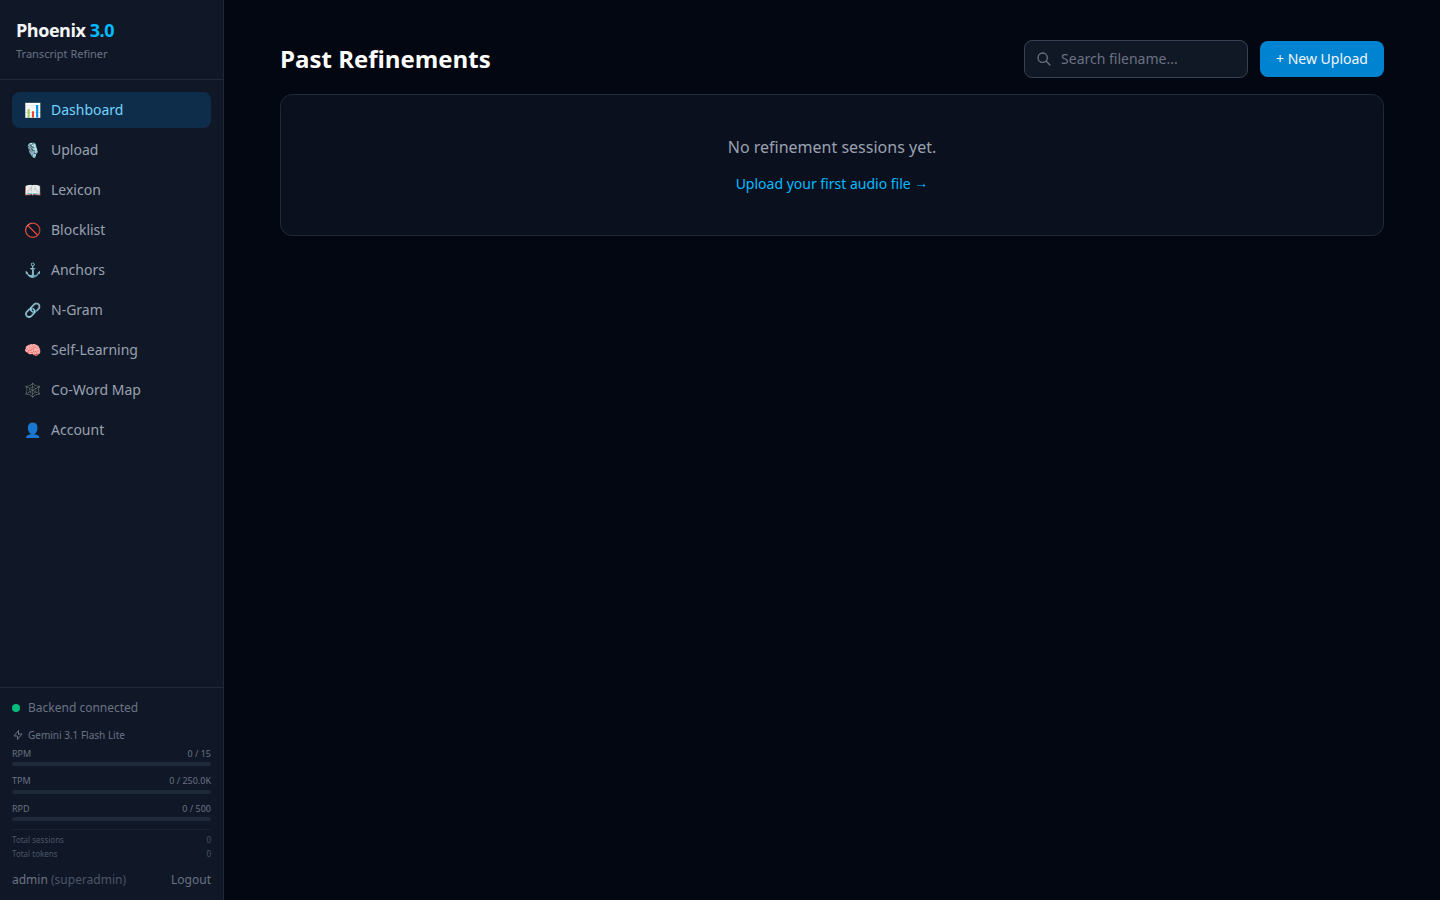
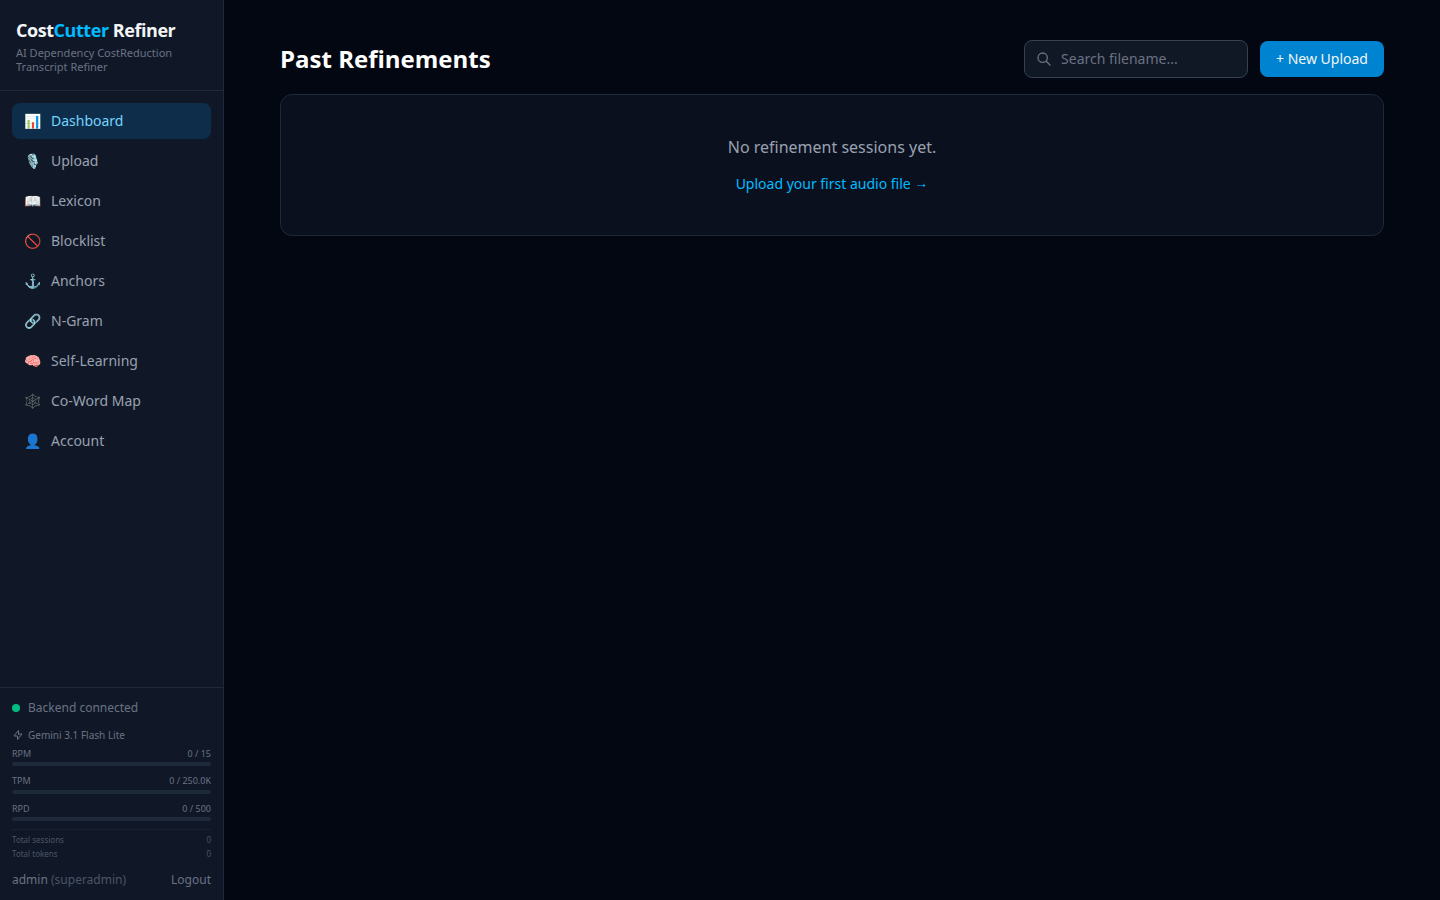
Rename Phoenix 3.0 branding to CostCutter Refiner
Replace user-facing product name with CostCutter Refiner on the
dashboard, login page, and API titles. Use AI Dependency
CostReduction Transcript Refiner as the descriptive subtitle.
Update README, SYSTEM_DOCUMENTATION, env template, pgAdmin label,
and refresh the dashboard screenshot.

Changed region(s): [[0.0, 0.0311, 0.1562, 0.4978]]

diff --git a/frontend/src/components/Layout.tsx b/frontend/src/components/Layout.tsx
@@ -67,9 +67,11 @@ export default function Layout() {
       <aside className="w-56 bg-gray-900 border-r border-gray-800 flex flex-col shrink-0 h-screen sticky top-0">
         <div className="p-4 border-b border-gray-800">
           <h1 className="text-lg font-bold tracking-tight">
-            Phoenix <span className="text-sky-400">3.0</span>
+            Cost<span className="text-sky-400">Cutter</span> Refiner
           </h1>
-          <p className="text-[11px] text-gray-500 mt-0.5">Transcript Refiner</p>
+          <p className="text-[11px] text-gray-500 mt-0.5 leading-tight">
+            AI Dependency CostReduction Transcript Refiner
+          </p>
         </div>
 
         <nav className="flex-1 p-3 space-y-1">

diff --git a/frontend/src/pages/LoginPage.tsx b/frontend/src/pages/LoginPage.tsx
@@ -35,9 +35,11 @@ export default function LoginPage() {
       <div className="w-full max-w-sm">
         <div className="text-center mb-8">
           <h1 className="text-3xl font-bold tracking-tight">
-            Phoenix <span className="text-sky-400">3.0</span>
+            Cost<span className="text-sky-400">Cutter</span> Refiner
           </h1>
-          <p className="text-sm text-gray-500 mt-1">Self-Learning Transcript Refiner</p>
+          <p className="text-sm text-gray-500 mt-1">
+            AI Dependency CostReduction Transcript Refiner
+          </p>
         </div>
 
         <form

diff --git a/frontend/index.html b/frontend/index.html
@@ -3,7 +3,7 @@
   <head>
     <meta charset="UTF-8" />
     <meta name="viewport" content="width=device-width, initial-scale=1.0" />
-    <title>Phoenix 3.0 – Transcript Refiner</title>
+    <title>CostCutter Refiner – AI Dependency CostReduction Transcript Refiner</title>
   </head>
   <body class="bg-gray-950 text-gray-100 min-h-screen">
     <div id="root"></div>

diff --git a/frontend/src/types.ts b/frontend/src/types.ts
@@ -1,4 +1,4 @@
-/* Types mirroring the Phoenix 3.0 backend schemas */
+/* Types mirroring the CostCutter Refiner backend schemas */
 
 export interface WordInfo {
   word: string;

diff --git a/backend/app/main.py b/backend/app/main.py
@@ -1,4 +1,4 @@
-"""Phoenix 3.0 – Self-Learning Transcript Refiner (FastAPI entry point)."""
+"""CostCutter Refiner – AI Dependency CostReduction Transcript Refiner (FastAPI entry point)."""
 
 from contextlib import asynccontextmanager
 
@@ -21,7 +21,7 @@ async def lifespan(app: FastAPI):
 
 
 app = FastAPI(
-    title="Phoenix 3.0 – Transcript Refiner",
+    title="CostCutter Refiner – AI Dependency CostReduction Transcript Refiner",
     description=(
         "A self-learning, deterministic-first transcript refiner "
         "using Semantic Anchors, N-Gram Co-occurrence, and DistilBERT."

diff --git a/backend/app/api/routes.py b/backend/app/api/routes.py
@@ -1,4 +1,4 @@
-"""Phoenix 3.0 API routes."""
+"""CostCutter Refiner API routes."""
 
 from __future__ import annotations
 
@@ -1810,4 +1810,4 @@ def get_coword_network(
 
 @router.get("/health")
 def health() -> dict:
-    return {"status": "ok", "service": "phoenix-3.0-refiner"}
+    return {"status": "ok", "service": "costcutter-refiner"}

diff --git a/backend/app/seed.py b/backend/app/seed.py
@@ -604,7 +604,7 @@ def main() -> None:
     glossary_count = seed_domain_glossary()
     print(f"  -> {glossary_count} domain terms inserted.")
 
-    print("Done! Phoenix 3.0 database is ready.")
+    print("Done! CostCutter Refiner database is ready.")
 
 
 if __name__ == "__main__":

diff --git a/backend/app/models/schemas.py b/backend/app/models/schemas.py
@@ -1,4 +1,4 @@
-"""Pydantic schemas for Phoenix 3.0 API."""
+"""Pydantic schemas for CostCutter Refiner API."""
 
 from __future__ import annotations
 

diff --git a/README.md b/README.md
@@ -1,16 +1,16 @@
-# Phoenix 3.0 – Self-Learning Transcript Refiner
+# CostCutter Refiner – AI Dependency CostReduction Transcript Refiner
 
-Phoenix 3.0 is a **deterministic-first transcript correction system** for call-center and customer-service audio. It takes raw Whisper transcriptions (or pasted plain text) and refines them through a layered pipeline of lexicon rules, statistical N-gram analysis, and AI-assisted correction — then **learns from every fix** so accuracy improves over time.
+CostCutter Refiner is a **deterministic-first transcript correction system** for call-center and customer-service audio. It takes raw Whisper transcriptions (or pasted plain text) and refines them through a layered pipeline of lexicon rules, statistical N-gram analysis, and AI-assisted correction — then **learns from every fix** so accuracy improves over time.
 
-Built for bilingual English/Filipino call recordings (collections, banking, verification), Phoenix targets the kinds of errors Whisper makes repeatedly: misheard domain terms, wrong casing, phonetically similar substitutions, and context-dependent word swaps.
+Built for bilingual English/Filipino call recordings (collections, banking, verification), CostCutter Refiner targets the kinds of errors Whisper makes repeatedly: misheard domain terms, wrong casing, phonetically similar substitutions, and context-dependent word swaps.
 
-![Phoenix 3.0 Dashboard — Past Refinements view after login](docs/images/dashboard.png)
+![CostCutter Refiner Dashboard — Past Refinements view after login](docs/images/dashboard.png)
 
 ---
 
 ## What It Does
 
-When you upload an audio file or import a transcript, Phoenix:
+When you upload an audio file or import a transcript, CostCutter Refiner:
 
 1. **Transcribes** audio via Groq (Whisper `large-v3-turbo`) with per-word confidence scores
 2. **Classifies** each segment's intent using Semantic Anchors (Greeting, Verification, Negotiation, Closing, etc.)
@@ -134,7 +134,7 @@ Click any session on the Dashboard to open its detail view:
 
 ## How Correction Works
 
-Phoenix applies corrections in a fixed order. Each layer builds on the previous one.
+CostCutter Refiner applies corrections in a fixed order. Each layer builds on the previous one.
 
 ### Layer 1 — Lexicon (Permanent Rules)
 
@@ -163,7 +163,7 @@ Remaining errors — especially unknown words flagged by N-Gram — are sent to 
 ## Project Structure
 
 ```
-phoenix-3/
+costcutter-refiner/
 ├── frontend/          # React + TypeScript + Vite + Tailwind CSS
 ├── backend/           # FastAPI + Python 3.12
 ├── config/            # pgAdmin server config
@@ -210,7 +210,7 @@ pgAdmin is included for direct database inspection:
 
 1. Open http://localhost:5050
 2. Login: `admin@phoenix.com` / `admin`
-3. Click **Phoenix DB** in the sidebar — database password: `phoenix`
+3. Click **CostCutter DB** in the sidebar — database password: `phoenix`
 4. Browse tables under **Schemas → public → Tables**
 
 Key tables: `lexicon`, `ngram_frequency`, `correction_log`, `transcription_sessions`, `semantic_anchors`, `domain_glossary`.

diff --git a/SYSTEM_DOCUMENTATION.md b/SYSTEM_DOCUMENTATION.md
@@ -1,8 +1,8 @@
-# Phoenix 3.0 – Self-Learning Transcript Refiner
+# CostCutter Refiner – AI Dependency CostReduction Transcript Refiner
 
 ## System Overview
 
-Phoenix 3.0 is a **deterministic-first transcript correction system** that refines Whisper-generated transcripts using a 3-layer correction hierarchy. Rather than relying on a single AI model, it applies targeted, explainable corrections where each fix has a clear source and rationale.
+CostCutter Refiner is a **deterministic-first transcript correction system** that refines Whisper-generated transcripts using a 3-layer correction hierarchy. Rather than relying on a single AI model, it applies targeted, explainable corrections where each fix has a clear source and rationale.
 
 ### How Refinement Works
 
@@ -955,9 +955,9 @@ pgAdmin is included in the Docker setup for browsing the PostgreSQL database dir
 - Password: `admin`
 
 **Connecting to the database:**
-1. The **Phoenix DB** server is pre-configured in the sidebar
-2. Click on **Phoenix DB** — when prompted for the database password, enter: `phoenix`
-3. Navigate: **Phoenix DB → Databases → phoenix → Schemas → public → Tables**
+1. The **CostCutter DB** server is pre-configured in the sidebar
+2. Click on **CostCutter DB** — when prompted for the database password, enter: `phoenix`
+3. Navigate: **CostCutter DB → Databases → phoenix → Schemas → public → Tables**
 4. Right-click any table → **View/Edit Data → All Rows** to browse data
 
 **Tables you'll find:**
